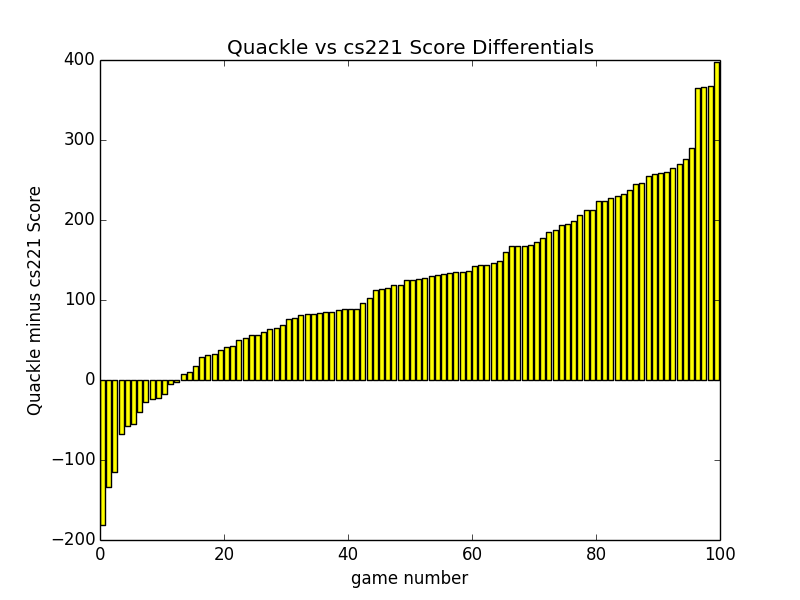
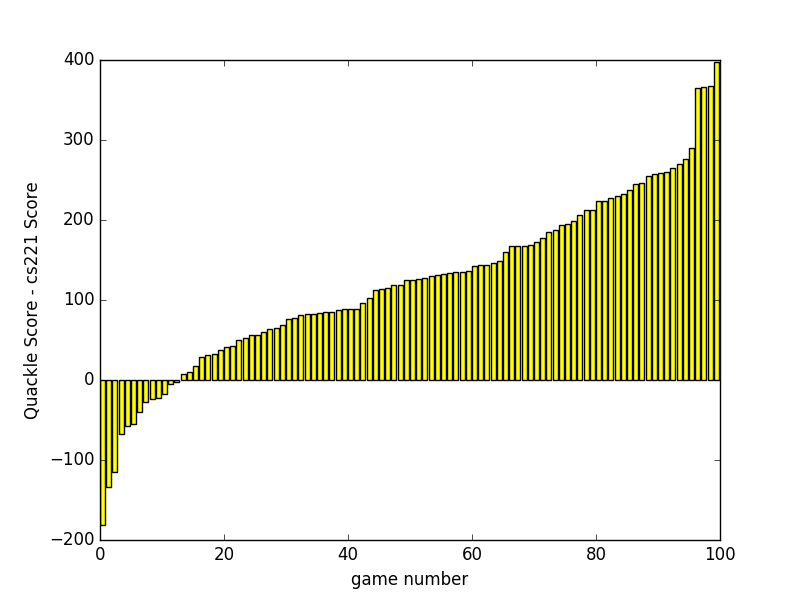
added stats

diff --git a/images/plot.py b/images/plot.py
@@ -4,11 +4,18 @@ points = []
 # vanilla AI, n=111
 #scores = {0: (290, 535), 1: (461, 374), 2: (271, 388), 3: (253, 462), 4: (305, 302), 5: (243, 439), 6: (264, 420), 7: (247, 382), 8: (315, 488), 9: (322, 477), 10: (364, 309), 11: (293, 324), 12: (284, 309), 13: (301, 338), 14: (259, 335), 15: (308, 393), 16: (230, 278), 17: (280, 319), 18: (257, 362), 19: (325, 439), 20: (265, 485), 21: (246, 414), 22: (349, 363), 23: (220, 588), 24: (314, 317), 25: (206, 383), 26: (235, 356), 27: (269, 420), 28: (244, 350), 29: (250, 398), 30: (316, 408), 31: (310, 315), 32: (300, 425), 33: (368, 328), 34: (387, 479), 35: (322, 456), 36: (342, 502), 37: (348, 575), 38: (361, 391), 39: (283, 422), 40: (316, 433), 41: (205, 354), 42: (315, 513), 43: (308, 406), 44: (261, 439), 45: (261, 484), 46: (247, 454), 47: (284, 281), 48: (220, 561), 49: (258, 436), 50: (338, 538), 51: (270, 405), 52: (330, 243), 53: (278, 352), 54: (226, 447), 55: (277, 319), 56: (280, 331), 57: (355, 481), 58: (325, 272), 59: (254, 402), 60: (345, 470), 61: (265, 462), 62: (283, 298), 63: (294, 418), 64: (230, 375), 65: (278, 479), 66: (305, 476), 67: (280, 353), 68: (234, 291), 69: (296, 272), 70: (236, 457), 71: (273, 406), 72: (268, 583), 73: (235, 426), 74: (237, 366), 75: (324, 365), 76: (214, 251), 77: (390, 506), 78: (231, 484), 79: (206, 464), 80: (329, 547), 81: (176, 533), 82: (323, 349), 83: (302, 471), 84: (231, 394), 85: (233, 508), 86: (287, 425), 87: (234, 490), 88: (277, 389), 89: (266, 406), 90: (351, 349), 91: (319, 538), 92: (266, 590), 93: (327, 304), 94: (240, 248), 95: (252, 279), 96: (384, 378), 97: (304, 432), 98: (279, 445), 99: (249, 267)}
 
+
 #rack heuristic only
 #scores =  {0: (210, 575), 1: (297, 416), 2: (341, 397), 3: (281, 412), 4: (332, 556), 5: (233, 377), 6: (307, 383), 7: (185, 450), 8: (321, 515), 9: (231, 320), 10: (319, 379), 11: (321, 481), 12: (264, 400), 13: (242, 410), 14: (332, 397), 15: (269, 322), 16: (274, 451), 17: (342, 398), 18: (332, 415), 19: (243, 416), 20: (202, 568), 21: (250, 520), 22: (337, 366), 23: (329, 336), 24: (300, 495), 25: (254, 439), 26: (249, 486), 27: (233, 367), 28: (274, 376), 29: (350, 428), 30: (363, 478), 31: (297, 380), 32: (258, 289), 33: (483, 349), 34: (235, 319), 35: (341, 160), 36: (301, 343), 37: (384, 472), 38: (239, 364), 39: (240, 516), 40: (298, 231), 41: (256, 337), 42: (223, 287), 43: (309, 437), 44: (255, 368), 45: (326, 452), 46: (270, 414), 47: (288, 329), 48: (307, 456), 49: (265, 433), 50: (334, 277), 51: (253, 485), 52: (230, 372), 53: (337, 597), 54: (254, 323), 55: (243, 328), 56: (317, 295), 57: (290, 420), 58: (310, 347), 59: (326, 336), 60: (239, 371), 61: (298, 330), 62: (320, 416), 63: (320, 565), 64: (321, 545), 65: (241, 454), 66: (368, 457), 67: (389, 361), 68: (331, 349), 69: (333, 468), 70: (261, 206), 71: (272, 460), 72: (218, 476), 73: (251, 510), 74: (315, 440), 75: (219, 365), 76: (387, 382), 77: (254, 422), 78: (233, 352), 79: (266, 556), 80: (330, 698), 81: (290, 489), 82: (312, 401), 83: (296, 346), 84: (306, 441), 85: (286, 246), 86: (272, 255), 87: (268, 514), 88: (319, 525), 89: (284, 260), 90: (308, 477), 91: (304, 534), 92: (255, 252), 93: (231, 444), 94: (214, 611), 95: (248, 333), 96: (250, 505), 97: (309, 423), 98: (265, 493), 99: (338, 223)}
 
-#partial mc
+#mc
 #scores = {0: (244, 258), 1: (257, 432), 2: (309, 287), 3: (285, 518), 4: (269, 285), 5: (231, 471), 6: (264, 513), 7: (321, 531), 8: (293, 469), 9: (228, 463), 10: (252, 531), 11: (243, 308), 12: (278, 312), 13: (259, 211), 14: (316, 301), 15: (225, 457), 16: (324, 227), 17: (334, 602), 18: (313, 253), 19: (238, 331), 20: (354, 478), 21: (286, 519), 22: (291, 451), 23: (281, 335), 24: (267, 342), 25: (370, 294), 26: (222, 367), 27: (348, 418), 28: (286, 445), 29: (295, 396), 30: (308, 233), 31: (313, 314), 32: (205, 607), 33: (179, 401), 34: (254, 269), 35: (300, 344), 36: (330, 416), 37: (270, 415), 38: (313, 352), 39: (213, 573), 40: (252, 375), 41: (338, 259), 42: (286, 288), 43: (312, 349), 44: (315, 446), 45: (314, 398), 46: (224, 365), 47: (306, 239), 48: (283, 558), 49: (254, 476), 50: (297, 492), 51: (347, 323), 52: (242, 479), 53: (351, 386), 54: (171, 343), 55: (276, 358), 56: (233, 315), 57: (337, 498), 58: (316, 416), 59: (285, 308), 60: (284, 485), 61: (277, 428), 62: (276, 341), 63: (274, 353), 64: (292, 372), 65: (321, 447), 66: (260, 470), 67: (258, 424), 68: (293, 387), 69: (345, 481), 70: (357, 449), 71: (274, 312), 72: (360, 322), 73: (316, 541), 74: (304, 428), 75: (258, 543), 76: (266, 374), 77: (354, 437), 78: (238, 377), 79: (293, 443), 80: (272, 416), 81: (254, 514), 82: (283, 387), 83: (254, 440), 84: (264, 500), 85: (308, 625), 86: (220, 338), 87: (363, 497), 88: (281, 299), 89: (213, 498), 90: (309, 244), 91: (283, 337), 92: (253, 410), 93: (255, 466), 94: (214, 475), 95: (325, 375), 96: (333, 413), 97: (321, 457), 98: (168, 437), 99: (350, 253)}
+
+#partial mc+rh
+#scores = {0: (322, 411), 1: (247, 329), 2: (271, 453), 3: (265, 412), 4: (224, 226), 5: (203, 550), 6: (280, 352), 7: (297, 419), 8: (274, 324), 9: (381, 126), 10: (358, 500), 11: (276, 478), 12: (307, 389), 13: (221, 473), 14: (295, 476), 15: (261, 468), 16: (278, 282), 17: (257, 399), 18: (296, 501), 19: (225, 241), 20: (286, 421), 21: (297, 655), 22: (259, 381), 23: (293, 403), 24: (306, 399), 25: (337, 397), 26: (210, 480), 27: (297, 450), 28: (237, 415), 29: (321, 490), 30: (315, 471), 31: (307, 506), 32: (229, 575), 33: (353, 380), 34: (419, 272)}
+
+
+#==========================================================================================================
 
 # vanilla self vs self (half A first, half B first)
 #scores = {0: (449, 348), 1: (424, 343), 2: (385, 264), 3: (412, 369), 4: (373, 477), 5: (378, 308), 6: (412, 426), 7: (444, 310), 8: (318, 352), 9: (392, 364), 10: (388, 385), 11: (429, 356), 12: (341, 447), 13: (296, 478), 14: (397, 377), 15: (355, 303), 16: (363, 263), 17: (328, 396), 18: (353, 337), 19: (433, 369), 20: (469, 375), 21: (436, 374), 22: (423, 317), 23: (409, 282), 24: (458, 367), 25: (390, 355), 26: (461, 351), 27: (365, 454), 28: (501, 332), 29: (359, 407), 30: (337, 317), 31: (303, 326), 32: (442, 445), 33: (399, 278), 34: (361, 323), 35: (259, 317), 36: (338, 296), 37: (479, 333), 38: (349, 296), 39: (320, 222), 40: (371, 306), 41: (374, 311), 42: (333, 311), 43: (274, 306), 44: (460, 395), 45: (426, 407), 46: (410, 338), 47: (347, 332), 48: (371, 397), 49: (321, 284), 50: (351, 295), 51: (278, 419), 52: (341, 356), 53: (373, 460), 54: (319, 362), 55: (368, 374), 56: (317, 447), 57: (363, 366), 58: (331, 348), 59: (264, 377), 60: (276, 260), 61: (355, 370), 62: (385, 382), 63: (364, 385), 64: (328, 427), 65: (455, 327), 66: (368, 326), 67: (410, 323), 68: (338, 325), 69: (374, 484), 70: (409, 372), 71: (370, 347), 72: (408, 381), 73: (306, 400), 74: (301, 340), 75: (416, 385), 76: (258, 352), 77: (377, 377), 78: (328, 349), 79: (286, 309), 80: (329, 321), 81: (331, 325), 82: (304, 431), 83: (386, 475), 84: (298, 303), 85: (340, 336), 86: (361, 406), 87: (377, 443), 88: (318, 265), 89: (427, 284), 90: (355, 373), 91: (290, 380), 92: (288, 384), 93: (416, 380), 94: (374, 362), 95: (337, 384), 96: (356, 361), 97: (388, 378), 98: (335, 398), 99: (362, 380)}
@@ -37,12 +44,21 @@ points = []
 # rackH self vs self (all B first)
 #scores = {0: (356, 351), 1: (334, 287), 2: (341, 319), 3: (333, 482), 4: (402, 339), 5: (351, 432), 6: (374, 358), 7: (365, 297), 8: (351, 398), 9: (361, 396), 10: (358, 356), 11: (320, 466), 12: (300, 386), 13: (327, 360), 14: (427, 306), 15: (309, 422), 16: (312, 362), 17: (304, 310), 18: (390, 333), 19: (260, 424), 20: (347, 397), 21: (368, 403), 22: (360, 314), 23: (306, 351), 24: (303, 376), 25: (323, 314), 26: (393, 370), 27: (314, 369), 28: (408, 396), 29: (331, 342), 30: (349, 294), 31: (317, 351), 32: (356, 416), 33: (377, 339), 34: (319, 331), 35: (291, 370), 36: (304, 442), 37: (215, 264), 38: (276, 349), 39: (351, 346), 40: (329, 395), 41: (284, 330), 42: (310, 423), 43: (414, 474), 44: (250, 286), 45: (412, 322), 46: (378, 355), 47: (331, 339), 48: (267, 228), 49: (398, 354), 50: (321, 314), 51: (344, 310), 52: (327, 288), 53: (346, 373), 54: (332, 332), 55: (379, 344), 56: (391, 346), 57: (398, 367), 58: (451, 355), 59: (384, 366), 60: (443, 342), 61: (324, 375), 62: (360, 351), 63: (417, 335), 64: (384, 347), 65: (330, 288), 66: (285, 358), 67: (405, 334), 68: (356, 317), 69: (419, 430), 70: (397, 375), 71: (337, 377), 72: (396, 373), 73: (285, 337), 74: (333, 368), 75: (344, 316), 76: (297, 343), 77: (365, 408), 78: (416, 338), 79: (381, 369), 80: (317, 285), 81: (302, 349), 82: (357, 326), 83: (385, 262), 84: (329, 368), 85: (453, 293), 86: (299, 322), 87: (462, 349), 88: (496, 354), 89: (324, 340), 90: (328, 302), 91: (399, 427), 92: (343, 333), 93: (363, 301), 94: (365, 274), 95: (299, 294), 96: (380, 301), 97: (305, 310), 98: (376, 282), 99: (452, 321)}
 
-#partial mc vs vanilla
-scores = {0: (334, 293), 1: (288, 410), 2: (363, 396), 3: (304, 366), 4: (332, 308), 5: (336, 345), 6: (302, 318), 7: (280, 346), 8: (335, 378), 9: (305, 372), 10: (306, 370), 11: (329, 426), 12: (298, 426), 13: (336, 336), 14: (339, 426), 15: (372, 369), 16: (251, 345), 17: (281, 316), 18: (327, 337), 19: (318, 385), 20: (292, 331), 21: (407, 292), 22: (335, 462), 23: (301, 357), 24: (415, 396)}
+# mc vs vanilla
+# scores = {0: (334, 293), 1: (288, 410), 2: (363, 396), 3: (304, 366), 4: (332, 308), 5: (336, 345), 6: (302, 318), 7: (280, 346), 8: (335, 378), 9: (305, 372), 10: (306, 370), 11: (329, 426), 12: (298, 426), 13: (336, 336), 14: (339, 426), 15: (372, 369), 16: (251, 345), 17: (281, 316), 18: (327, 337), 19: (318, 385), 20: (292, 331), 21: (407, 292), 22: (335, 462), 23: (301, 357), 24: (415, 396)}
 
-for p in scores.itervalues(): points.append(p)
+# for p in scores.itervalues(): points.append(p)
 
-scores = {0: (376, 386), 1: (324, 313), 2: (356, 365), 3: (312, 303), 4: (389, 376), 5: (370, 385), 6: (246, 391), 7: (280, 322), 8: (433, 344), 9: (300, 332), 10: (337, 311), 11: (265, 366), 12: (408, 392), 13: (454, 330), 14: (296, 346), 15: (306, 306), 16: (306, 407), 17: (321, 325), 18: (368, 375), 19: (413, 384), 20: (367, 342), 21: (341, 343), 22: (337, 382), 23: (461, 375), 24: (315, 389), 25: (384, 453), 26: (344, 420), 27: (352, 344), 28: (269, 355), 29: (330, 337), 30: (284, 356), 31: (326, 459), 32: (335, 324), 33: (383, 337), 34: (337, 413), 35: (323, 367), 36: (326, 347), 37: (451, 423), 38: (401, 321), 39: (342, 334), 40: (355, 357), 41: (237, 407)}
+# scores = {0: (376, 386), 1: (324, 313), 2: (356, 365), 3: (312, 303), 4: (389, 376), 5: (370, 385), 6: (246, 391), 7: (280, 322), 8: (433, 344), 9: (300, 332), 10: (337, 311), 11: (265, 366), 12: (408, 392), 13: (454, 330), 14: (296, 346), 15: (306, 306), 16: (306, 407), 17: (321, 325), 18: (368, 375), 19: (413, 384), 20: (367, 342), 21: (341, 343), 22: (337, 382), 23: (461, 375), 24: (315, 389), 25: (384, 453), 26: (344, 420), 27: (352, 344), 28: (269, 355), 29: (330, 337), 30: (284, 356), 31: (326, 459), 32: (335, 324), 33: (383, 337), 34: (337, 413), 35: (323, 367), 36: (326, 347), 37: (451, 423), 38: (401, 321), 39: (342, 334), 40: (355, 357), 41: (237, 407), 42: (383, 380), 43: (431, 307), 44: (298, 330), 45: (365, 460), 46: (401, 349), 47: (441, 311), 48: (335, 410), 49: (346, 342), 50: (329, 294), 51: (319, 327), 52: (377, 400), 53: (351, 315)}
+
+# for p in scores.itervalues(): points.append(p)
+
+# scores = {0: (323, 349)}
+
+# for p in scores.itervalues(): points.append(p)
+
+#mc-rh vs vanilla
+scores = {0: (270, 370), 1: (265, 388), 2: (385, 380), 3: (368, 437), 4: (336, 363), 5: (331, 324), 6: (407, 348), 7: (324, 304), 8: (288, 381), 9: (343, 431), 10: (315, 380), 11: (322, 405), 12: (319, 368), 13: (385, 358), 14: (273, 331), 15: (315, 383), 16: (339, 316), 17: (365, 340), 18: (335, 278), 19: (298, 336), 20: (346, 403), 21: (426, 318), 22: (341, 400), 23: (341, 434), 24: (296, 422), 25: (325, 343), 26: (308, 374), 27: (366, 363), 28: (343, 325), 29: (302, 331), 30: (365, 324), 31: (369, 392), 32: (333, 327), 33: (385, 306), 34: (378, 425), 35: (422, 350), 36: (297, 366), 37: (419, 358), 38: (337, 309), 39: (358, 355), 40: (401, 303), 41: (321, 340), 42: (384, 379), 43: (294, 329), 44: (385, 354), 45: (373, 369), 46: (286, 380), 47: (428, 338), 48: (414, 331), 49: (398, 515), 50: (370, 313), 51: (392, 466), 52: (309, 462)}
 
 for p in scores.itervalues(): points.append(p)
 
@@ -55,40 +71,9 @@ quack = 0
 cs221 = 0
 numGames = len(points)
 #######################################
-for p in points:
-    heur += p[0]
-    van += p[1]
-    ratios.append(p[0]/float(p[1]))
-    deltas.append(p[0] - p[1])
-deltas = sorted(deltas)
-ratios = sorted(ratios)
-winRate = 0
-smashedRate = 0
-smashingRate = 0
-for g in ratios:
-    if g >= 2:
-        smashingRate += 1
-    if g > 1:
-        winRate += 1
-    if g <= 0.5:
-        smashedRate +=1
-winRate = winRate/float(numGames)
-smashedRate = smashedRate/float(numGames)
-smashingRate = smashingRate/float(numGames)
-print "deltas",deltas
-print "num games", numGames
-print "A avg",heur/float(numGames)
-print "B avg",van/float(numGames)
-print "avg delta",sum(deltas)/float(numGames)
-print "A win rate",winRate
-print "A smashed rate",smashedRate
-print "A smashing rate",smashingRate
-print "best ratio", 1.0/ratios[0]
-print "ratios",ratios
-#########################################
 # for p in points:
-#     quack += p[0]
-#     cs221 += p[1]
+#     heur += p[1]
+#     van += p[0]
 #     ratios.append(p[1]/float(p[0]))
 #     deltas.append(p[1] - p[0])
 # deltas = sorted(deltas)
@@ -97,33 +82,65 @@ print "ratios",ratios
 # smashedRate = 0
 # smashingRate = 0
 # for g in ratios:
-#     if g <= 0.5:
+#     if g >= 2:
 #         smashingRate += 1
-#     if g < 1:
+#     if g > 1:
 #         winRate += 1
-#     if g >=2:
+#     if g <= 0.5:
 #         smashedRate +=1
 # winRate = winRate/float(numGames)
 # smashedRate = smashedRate/float(numGames)
 # smashingRate = smashingRate/float(numGames)
 # print "deltas",deltas
 # print "num games", numGames
-# print "quack avg",quack/float(numGames)
-# print "cs221 avg",cs221/float(numGames)
+# print "A avg",heur/float(numGames)
+# print "B avg",van/float(numGames)
 # print "avg delta",sum(deltas)/float(numGames)
-# print "cs221 win rate",winRate
-# print "cs221 smashed rate",smashedRate
-# print "cs221 smashing rate",smashingRate
+# print "A win rate",winRate
+# print "A smashed rate",smashedRate
+# print "A smashing rate",smashingRate
 # print "best ratio", 1.0/ratios[0]
 # print "ratios",ratios
+#########################################
+for p in points:
+    quack += p[1]
+    cs221 += p[0]
+    ratios.append(p[1]/float(p[0]))
+    deltas.append(p[1] - p[0])
+deltas = sorted(deltas)
+ratios = sorted(ratios)
+winRate = 0
+smashedRate = 0
+smashingRate = 0
+for g in ratios:
+    if g <= 0.5:
+        smashingRate += 1
+    if g < 1:
+        winRate += 1
+    if g >=2:
+        smashedRate +=1
+winRate = winRate/float(numGames)
+smashedRate = smashedRate/float(numGames)
+smashingRate = smashingRate/float(numGames)
+print "deltas",deltas
+print "num games", numGames
+print "quack avg",quack/float(numGames)
+print "cs221 avg",cs221/float(numGames)
+print "avg delta",sum(deltas)/float(numGames)
+print "cs221 win rate",winRate
+print "cs221 smashed rate",smashedRate
+print "cs221 smashing rate",smashingRate
+print "best ratio", 1.0/ratios[0]
+print "ratios",ratios
 ##########################################
 plt.bar(range(numGames), deltas, color="yellow")
 #plt.plot([i for i in xrange(len(us))], us, label="cs221", marker = '.')
 #plt.plot([i for i in xrange(len(quackle))], quackle, label="quackle", marker = '.')
 #plt.title('cs221 Selfplay Score Differentials')
-plt.title('Quackle vs Monte Carlo')
+#plt.title('Quackle vs Monte Carlo')
 plt.xlabel("game number")
 #plt.ylim([0, 600])
 plt.ylabel("Quackle Score - cs221 Score")
+#plt.ylabel("A Score - B Score")
 plt.legend()
 plt.show()

diff --git a/pdfs/final.tex b/pdfs/final.tex
@@ -1,7 +1,7 @@
 \documentclass[12pt]{article}
-\usepackage{fullpage,enumitem,amsmath,amssymb,graphicx,hyperref}
+\usepackage{fullpage,enumitem,amsmath,amssymb,graphicx,hyperref,footmisc}
 \usepackage[margin=1in]{geometry} 
-
+\renewcommand{\thefootnote}{\fnsymbol{footnote}}
 \begin{document}
 
 \begin{center}
@@ -336,85 +336,60 @@ performed against average-ability humans, we created a human vs AI
 mode in run.py. As the objective of our project was to create a scrabble-playing AI, it would hardly be useful if it cold only run against other computers. However, as data is time-consuming to collect, and we don't have access to any self-reporting 'decent' scrabble players, this wasn't used as a significant source of data. 
 
 \section*{Results and Analysis}
-\begin{figure}[ht]
-  \minipage{0.5\textwidth}
-    \centering
-  \includegraphics[scale=0.4]{../images/quacklegame_MC_100}
-  \caption{Quackle vs CS221 With Monte Carlo}
-  \endminipage
-  \minipage{0.5\textwidth}
-      \centering
-  \includegraphics[scale=0.4]{../images/quacklegame_rackH_100}\\
-   \caption{This will be a game w/ montecarlo rH? }
-  \endminipage{}
-\end{figure}
-\begin{figure}[h]
+We win 13\% of the time against a world class AI, not bad! Rack
+heuristics help slightly, doesn't seem statistically significant. MC
+
+\begin{figure}[h!]
   \minipage{0.5\textwidth}
     \centering
   \includegraphics[scale=0.4]{../images/quacklegame_vanilla_100}
-  \caption{Quackle vs CS221 Vanilla}
+  \caption{\footnotesize{Quackle vs CS221 Vanilla}}
   \endminipage
   \minipage{0.5\textwidth}
       \centering
   \includegraphics[scale=0.4]{../images/quacklegame_rackH_100}\\
-   \caption{Quackle vs CS221 with Rack Heuristics}
+   \caption{\footnotesize{Quackle vs CS221 w/ Rack Heuristics}}
+  \endminipage{}
+  \minipage{0.5\textwidth}
+    \centering
+  \includegraphics[scale=0.4]{../images/quacklegame_MC_100}
+  \caption{\footnotesize{Quackle vs CS221 w/ Monte Carlo}}
+  \endminipage
+  \minipage{0.5\textwidth}
+      \centering
+  \includegraphics[scale=0.39]{../images/quacklegame_MC-RH_35}\\
+   \caption{\footnoetesize{Quackle vs CS221 with Monte Carlo and Rack
+       Heuristics*}}
   \endminipage{}
 \end{figure}
 
 
-\begin{table}[h]
+\begin{table}[h!]
   \centering
   \begin{tabular}{c|l|l|l|l|l|l}
     \textbf{} & \textbf{win rate} & \textbf{mean} & \textbf{opp mean} & \textbf{mean delta} &  \textbf{2x loss rate} & \textbf{max win ratio} \\\hline
   \textbf{vanilla}   & 11\% & 284.68 & 407.43 & 122.75 & 13\% & 1.358\\
-  \textbf{RH}        & 13\% & 288.07 & 410.0  & 121.93 & 11\% & 2.131 \\
-  \textbf{MC}        & -    & -      & -      & -      & -    & - \\
-  \textbf{MC w/ RH}  & -    & -      & -      & -      & -    & - \\
+  \textbf{RH}        & 13\% & 288.07 & 410.0  & 121.93 & 11\% & 2.131\\
+  \textbf{MC}        & 13\% & 283.3  & 401.95 & 118.65 & 14\% & 1.42 \\
+  \textbf{MC w/ RH*} & 5\%  & 285.38 & 412.22 & 126.83 & 13\% & 2.34 \\
 \end{tabular}
   \caption{Statistics of our AI variants against Quackle's Speedy
     Player. \emph{Mean delta} is the average difference between
     opponent and our score, \emph{2x loss rate} is the rate at which
     the opponent scores 2x or higher, and \emph{max win ratio} is the
     max ratio of our score to opponent's.}
-\end{table}
+\end{table}\footnote[]{*These were shorter runs due to time constraints. Table 1's MC+RH was 35 runs, and Table 2's MC and MC+RH were 80 and 53 runs respectively. Furthermore, the MC+RC weight vector was only run for 50 iterations instead of 100.}
 
-We win 13\% of the time against a world class AI, not bad! Rack
-heuristics help slightly, doesn't seem statistically significant. MC
-TBD 
-\begin{figure}[h]
-  \minipage{0.5\textwidth}
-    \centering
-  \includegraphics[scale=0.4]{../images/quacklegame_vanilla_111}
-  \caption{CS221 Vanilla vs CS221 Vanilla}
-  \endminipage
-  \minipage{0.5\textwidth}
-      \centering
-  \includegraphics[scale=0.4]{../images/quacklegame_rackH_111}\\
-   \caption{CS221 Vanilla vs CS221 with Rack Heuristics}
-  \endminipage{}
-\end{figure}
+Talk about quackle stats table here.
 
-\begin{figure}[h]
-  \minipage{0.5\textwidth}
-    \centering
-  \includegraphics[scale=0.4]{../images/quacklegame_vanilla_111}
-  \caption{Will be CS221 Vanilla vs CS221 with Monte Carlo}
-  \endminipage
-  \minipage{0.5\textwidth}
-      \centering
-  \includegraphics[scale=0.4]{../images/quacklegame_rackH_111}\\
-   \caption{Will be CS221 Vanilla vs CS221 with Monte Carlo and rack heuristics}
-  \endminipage{}
-\end{figure}
-
-\begin{table}[h]
+\begin{table}[h!]
   \centering
   \begin{tabular}{c|l|l|l|l|l|l}
     \textbf{} & \textbf{win rate} & \textbf{mean} & \textbf{opp mean} & \textbf{mean delta} &  \textbf{2x loss rate} & \textbf{max win ratio} \\\hline
   \textbf{control}   & 47\% & 354.24 & 359.25 & -5.01  & 0\%  & 1.811\\
   \textbf{RH}        & 48\% & 351.59 & 353.81 & -2.22  & 0\%  & 1.509\\
-  \textbf{MC}        & -    & -      & -      & -      & -    & - \\
-  \textbf{MC w/ RH}  & -    & -      & -      & -      & -    & - \\
+  \textbf{MC*}       & 62\% & 361.55 & 340.56 & 20.98  & 0\%  & 1.41 \\
+  \textbf{MC w/ RH*} & 53\% & 364.62 & 347.07 & 17.54  & 0\%  & 1.33 \\
 \end{tabular}
   \caption{Statistics of our AI playing against itself for 300
     games. Control is the vanilla variant playing against itself, all
